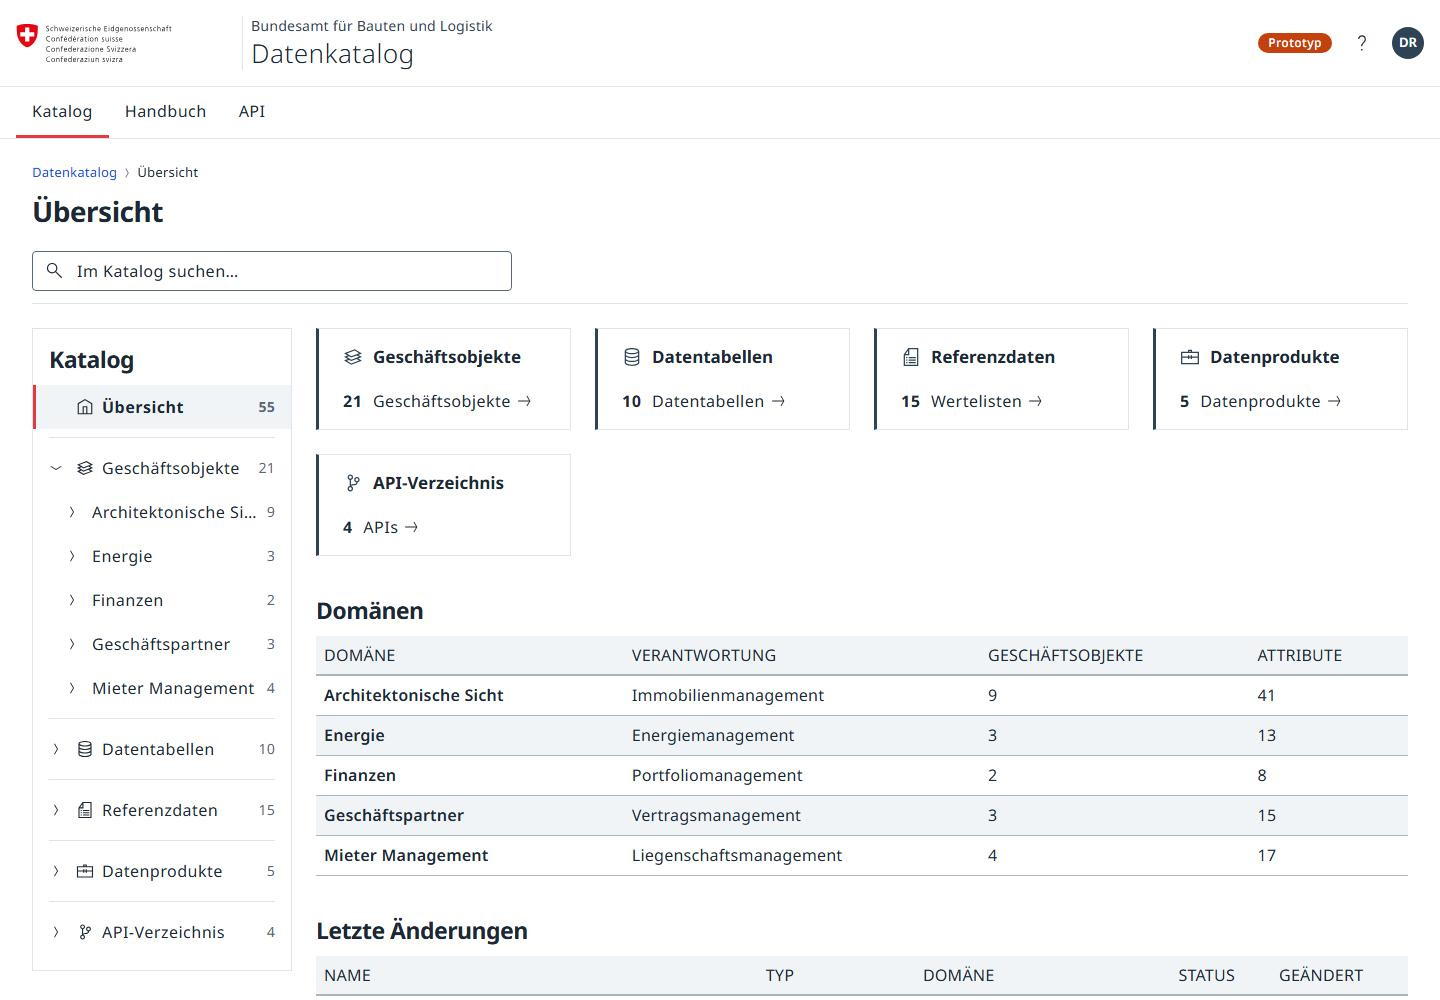
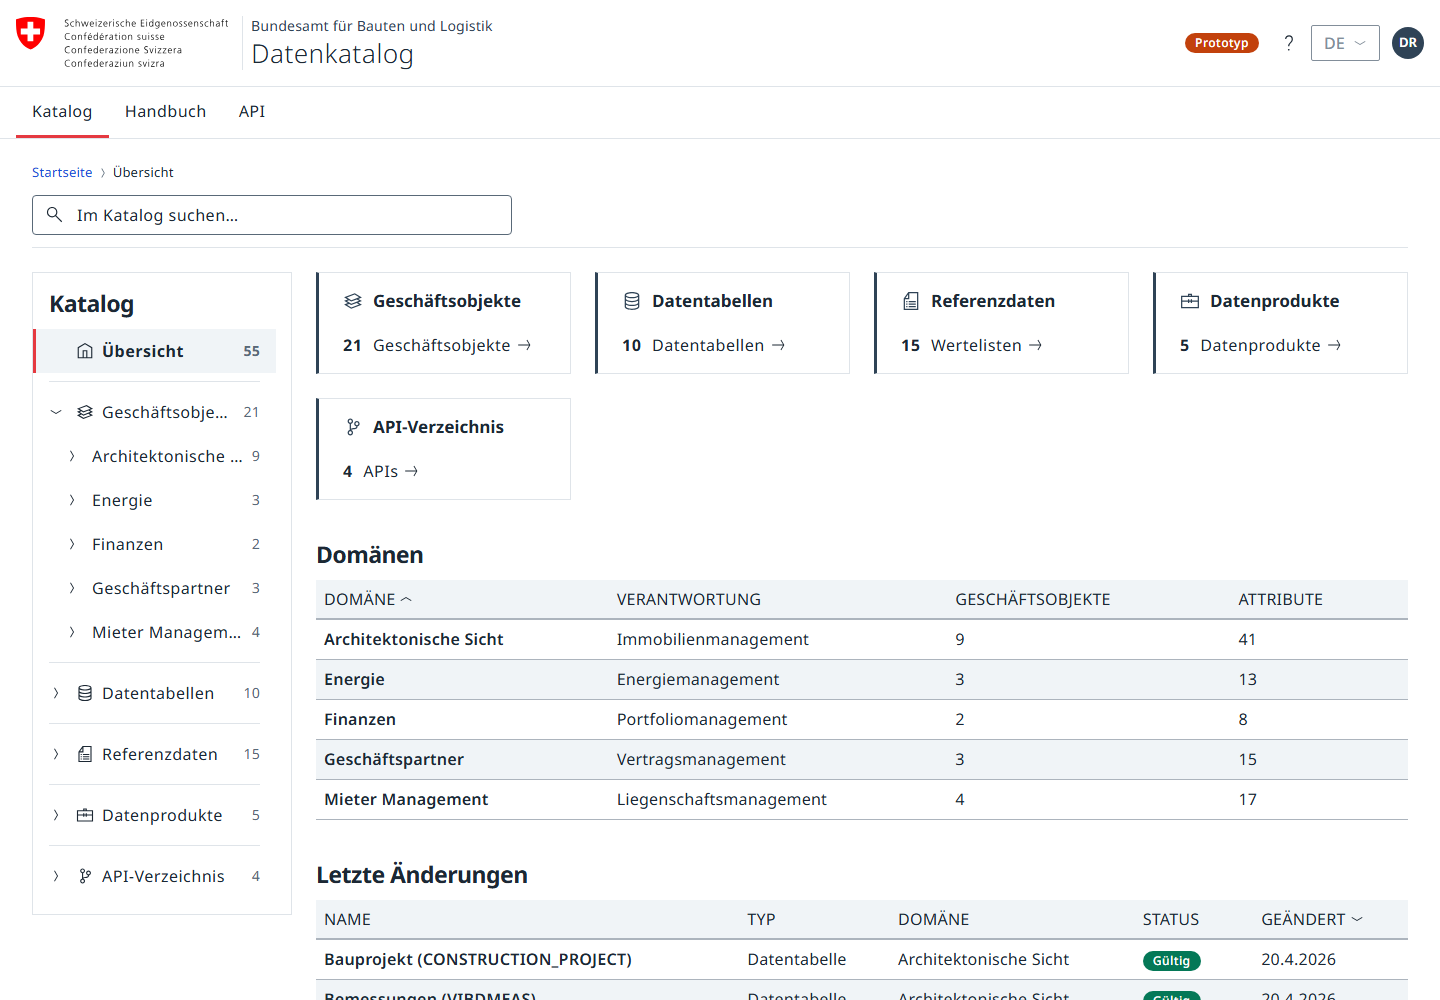
Update

diff --git a/prototype-oblique/css/main.css b/prototype-oblique/css/main.css
@@ -164,6 +164,7 @@ a:focus-visible { border-radius: var(--ob-radius-md); }
 .ob-button--icon.ob-button--outlined { border-color: var(--ob-color-border-control); background: var(--ob-color-bg); }
 .ob-button--icon.ob-button--outlined:hover { background: var(--ob-color-surface); }
 .ob-button--pager { width: var(--ob-touch-target); height: var(--ob-touch-target); padding: 0; }
+.ob-language-select { min-width: 64px; }
 
 /* Badge / chip */
 .ob-badge, .ob-chip {
@@ -282,11 +283,10 @@ a:focus-visible { border-radius: var(--ob-radius-md); }
   text-transform: uppercase; color: var(--ob-color-text-tertiary);
 }
 .ob-suggest-option {
-  display: flex; align-items: baseline; justify-content: space-between; gap: var(--ob-space-md);
+  display: flex; align-items: center;
   padding: 6px var(--ob-space-default); border-left: var(--ob-border-width-md) solid transparent; background: var(--ob-color-bg); cursor: pointer;
 }
 .ob-suggest-option > span:first-child { min-width: 0; overflow: hidden; text-overflow: ellipsis; white-space: nowrap; }
-.ob-suggest-option-sub { font-size: var(--ob-font-size-sm); color: var(--ob-color-text-tertiary); white-space: nowrap; }
 .ob-suggest-option:hover, .ob-suggest-option[aria-selected="true"] { background: var(--ob-color-surface); border-left-color: var(--ob-color-accent); }
 .ob-suggest-all {
   display: flex; align-items: center; gap: var(--ob-space-sm); margin-top: var(--ob-space-xs);
@@ -326,6 +326,7 @@ a:focus-visible { border-radius: var(--ob-radius-md); }
   padding-left: calc((var(--level, 1) - 1) * var(--ob-space-default) + var(--ob-space-xs));
   border-left: var(--ob-border-width-md) solid transparent; background: transparent;
 }
+.ob-tree-row--chapter { grid-template-columns: minmax(0, 1fr); }
 .ob-tree-row:hover { background: var(--ob-color-surface); border-left-color: var(--ob-color-accent); }
 .ob-tree-row.is-active { background: var(--ob-color-surface); border-left-color: var(--ob-color-accent); font-weight: var(--ob-font-weight-bold); }
 .ob-tree-toggle {
@@ -344,7 +345,6 @@ button.ob-tree-link { width: 100%; font: inherit; letter-spacing: inherit; }
 .ob-tree-label { flex: 1; min-width: 0; overflow: hidden; text-overflow: ellipsis; white-space: nowrap; }
 .ob-tree-count { font-size: var(--ob-font-size-sm); color: var(--ob-color-text-tertiary); letter-spacing: var(--ob-letter-spacing-wide); }
 .ob-tree-divider { height: 0; border-top: var(--ob-border-width-xs) solid var(--ob-color-border); margin: var(--ob-space-sm) var(--ob-space-default); }
-.ob-tree-number { color: var(--ob-color-text-tertiary); min-width: 16px; }
 
 .ob-content { grid-column: 2; grid-row: 1; min-width: 0; }
 .ob-content h2 { margin-bottom: var(--ob-space-md); }
@@ -526,7 +526,6 @@ button.ob-tree-link { width: 100%; font: inherit; letter-spacing: inherit; }
 .ob-manual { display: grid; grid-template-columns: minmax(220px, 260px) minmax(0, 1fr); gap: var(--ob-space-lg); align-items: start; }
 .ob-manual-content { grid-column: 2; grid-row: 1; min-width: 0; }
 .ob-manual-chapters { display: flex; flex-direction: column; gap: var(--ob-space-2xl); }
-.ob-tree-link--chapter { grid-column: 1 / -1; display: grid; grid-template-columns: 32px minmax(0, 1fr); }
 .ob-chapter { display: flex; flex-direction: column; gap: 20px; max-width: var(--ob-prose-max-width); scroll-margin-top: var(--ob-space-default); }
 .ob-chapter:last-child { min-height: 60vh; }
 .ob-chapter h3 { margin-bottom: var(--ob-space-xs); }
@@ -647,6 +646,7 @@ button.ob-tree-link { width: 100%; font: inherit; letter-spacing: inherit; }
   .ob-header-tools { gap: 0; }
   .ob-header-tools .ob-badge, .ob-avatar { display: none; }
   .ob-header-tools .ob-button { width: var(--ob-touch-target); height: var(--ob-touch-target); }
+  .ob-header-tools .ob-language-select { width: auto; min-width: 56px; padding: 0 var(--ob-space-sm); }
   .ob-main-nav { padding: 0 var(--ob-space-xs); }
   .ob-main-nav-item { min-height: var(--ob-touch-target); padding: var(--ob-space-sm) var(--ob-space-md); font-size: var(--ob-font-size-sm); }
   .ob-main { padding-top: var(--ob-space-default); padding-bottom: var(--ob-space-xl); }

diff --git a/prototype-oblique/js/views.js b/prototype-oblique/js/views.js
@@ -13,9 +13,11 @@
   /* ---- header, nav, footer ------------------------------------------------ */
   views.headerTools = function (state) {
     const cfg = data.config;
+    const language = String(cfg.app.language || 'de').toUpperCase();
     return `
       <span class="ob-badge ob-chip--warning">${esc(cfg.app.badge)}</span>
       <div class="ob-popover-host" id="help-host">${views.helpHost(state)}</div>
+      <button type="button" class="ob-button ob-language-select" disabled title="${esc(t('header.languagePending'))}" aria-label="${esc(`${t('header.language')}: ${t('header.languageCurrent')}. ${t('header.languagePending')}`)}">${esc(language)} ${icon('chevron_down', 'sm')}</button>
       <div class="ob-avatar" title="${esc(cfg.app.user.name)}" aria-label="${esc(cfg.app.user.name)}">${esc(cfg.app.user.initials)}</div>`;
   };
 
@@ -163,7 +165,7 @@
       const i = idx++;
       const href = router.entityHref(g.kind, e.identifier);
       state.suggestFlat.push(href);
-      return `<div role="option" id="suggest-${i}" class="ob-suggest-option" aria-selected="${state.suggestIdx === i}" data-action="suggest-pick" data-href="${esc(href)}"><span>${esc(e.name)}</span><span class="ob-suggest-option-sub">${esc(data.sub(g.kind, e))}</span></div>`;
+      return `<div role="option" id="suggest-${i}" class="ob-suggest-option" aria-selected="${state.suggestIdx === i}" data-action="suggest-pick" data-href="${esc(href)}"><span>${esc(e.name)}</span></div>`;
     }).join('')}</div>`).join('');
     state.suggestAllIdx = idx;
     const label = groups.length ? t('search.showAll', { q }) : t('search.noSuggest', { q });
@@ -370,7 +372,7 @@
   views.manual = function (ctx) {
     const state = ctx.state;
     const m = data.manual, model = data.model;
-    const aside = `<aside class="ob-tree-panel is-sticky${state.navDrawerOpen ? ' is-mobile-open' : ''}" id="manual-navigation" aria-label="${esc(t('manual.title'))}">${views.drawerHeader(t('manual.title'))}<h2 class="ob-tree-title">${esc(t('manual.title'))}</h2><ul class="ob-tree">${m.chapters.map((c, i) => `<li><div class="ob-tree-row${state.chapter === c.id ? ' is-active' : ''}" style="--level:1"><a class="ob-tree-link ob-tree-link--chapter" href="${router.build('/manual', { ch: c.id })}"${state.chapter === c.id ? ' aria-current="location"' : ''} data-action="chapter" data-chapter="${esc(c.id)}"><span class="ob-tree-number">${i + 1}.</span><span class="ob-tree-label">${esc(c.title)}</span></a></div></li>`).join('')}</ul></aside>`;
+    const aside = `<aside class="ob-tree-panel is-sticky${state.navDrawerOpen ? ' is-mobile-open' : ''}" id="manual-navigation" aria-label="${esc(t('manual.title'))}">${views.drawerHeader(t('manual.title'))}<h2 class="ob-tree-title">${esc(t('manual.title'))}</h2><ul class="ob-tree">${m.chapters.map((c, i) => `<li><div class="ob-tree-row ob-tree-row--chapter${state.chapter === c.id ? ' is-active' : ''}" style="--level:1"><a class="ob-tree-link" href="${router.build('/manual', { ch: c.id })}"${state.chapter === c.id ? ' aria-current="location"' : ''} data-action="chapter" data-chapter="${esc(c.id)}"><span class="ob-tree-label">${i + 1}. ${esc(c.title)}</span></a></div></li>`).join('')}</ul></aside>`;
     const sec = (n, inner) => { const c = m.chapters[n - 1]; return `<section id="hb-${esc(c.id)}" class="ob-chapter" data-chapter="${esc(c.id)}"><h2>${n}. ${esc(c.title)}</h2>${inner}</section>`; };
     const li = arr => arr.join('');
 

diff --git a/prototype-oblique/docs/design-review-responsive.md b/prototype-oblique/docs/design-review-responsive.md
@@ -250,7 +250,7 @@ Recommendation:
 
 ### Priority 0: repair the mobile header
 
-1. Remove the disabled language selector until it is functional.
+1. Keep the compact **DE** language selector as a clearly disabled placeholder until language switching is implemented; the reduced mobile wordmark leaves enough room for it without hiding the app title.
 2. Prioritize a readable **Datenkatalog** title over the prototype badge and avatar.
 3. Hide or move nonessential utilities into an overflow menu on phones. Keep help reachable.
 4. Test the header at 320, 375, 390, and 600 px. It must not create horizontal overflow and the app name must remain visible.
